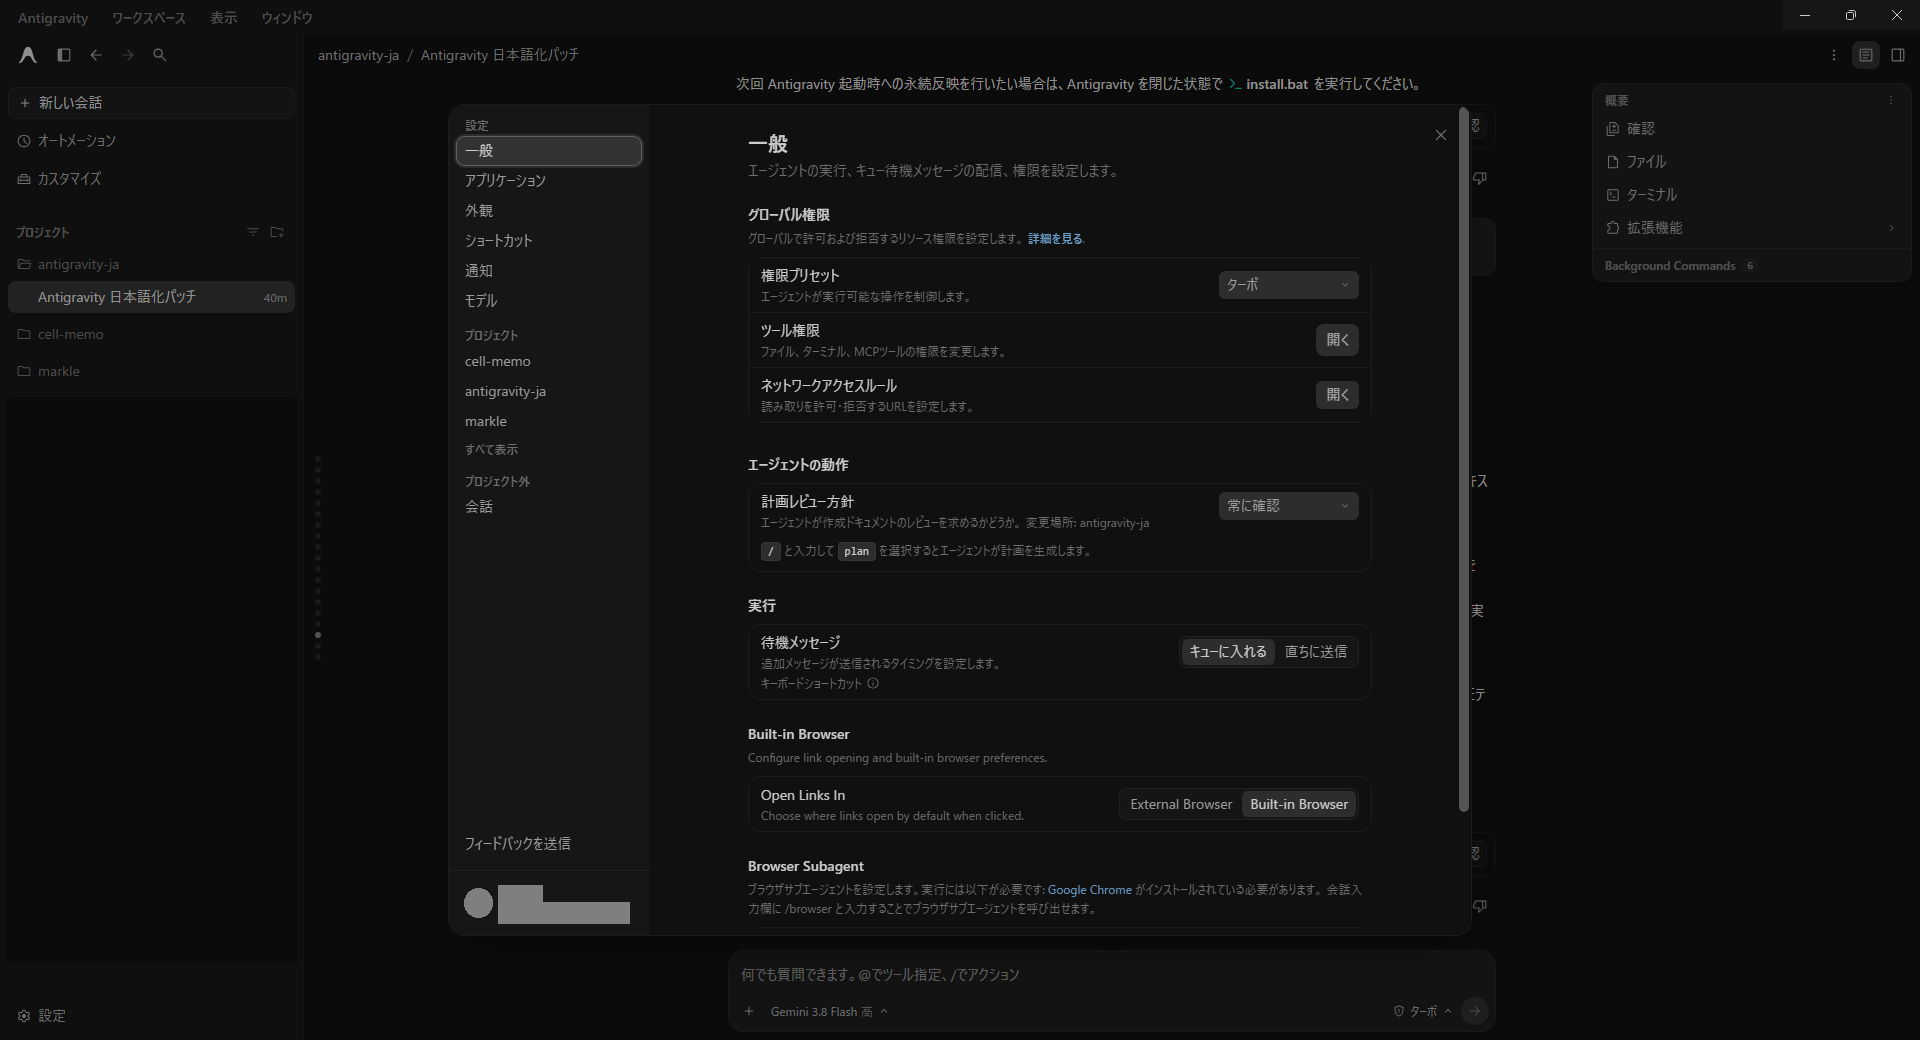
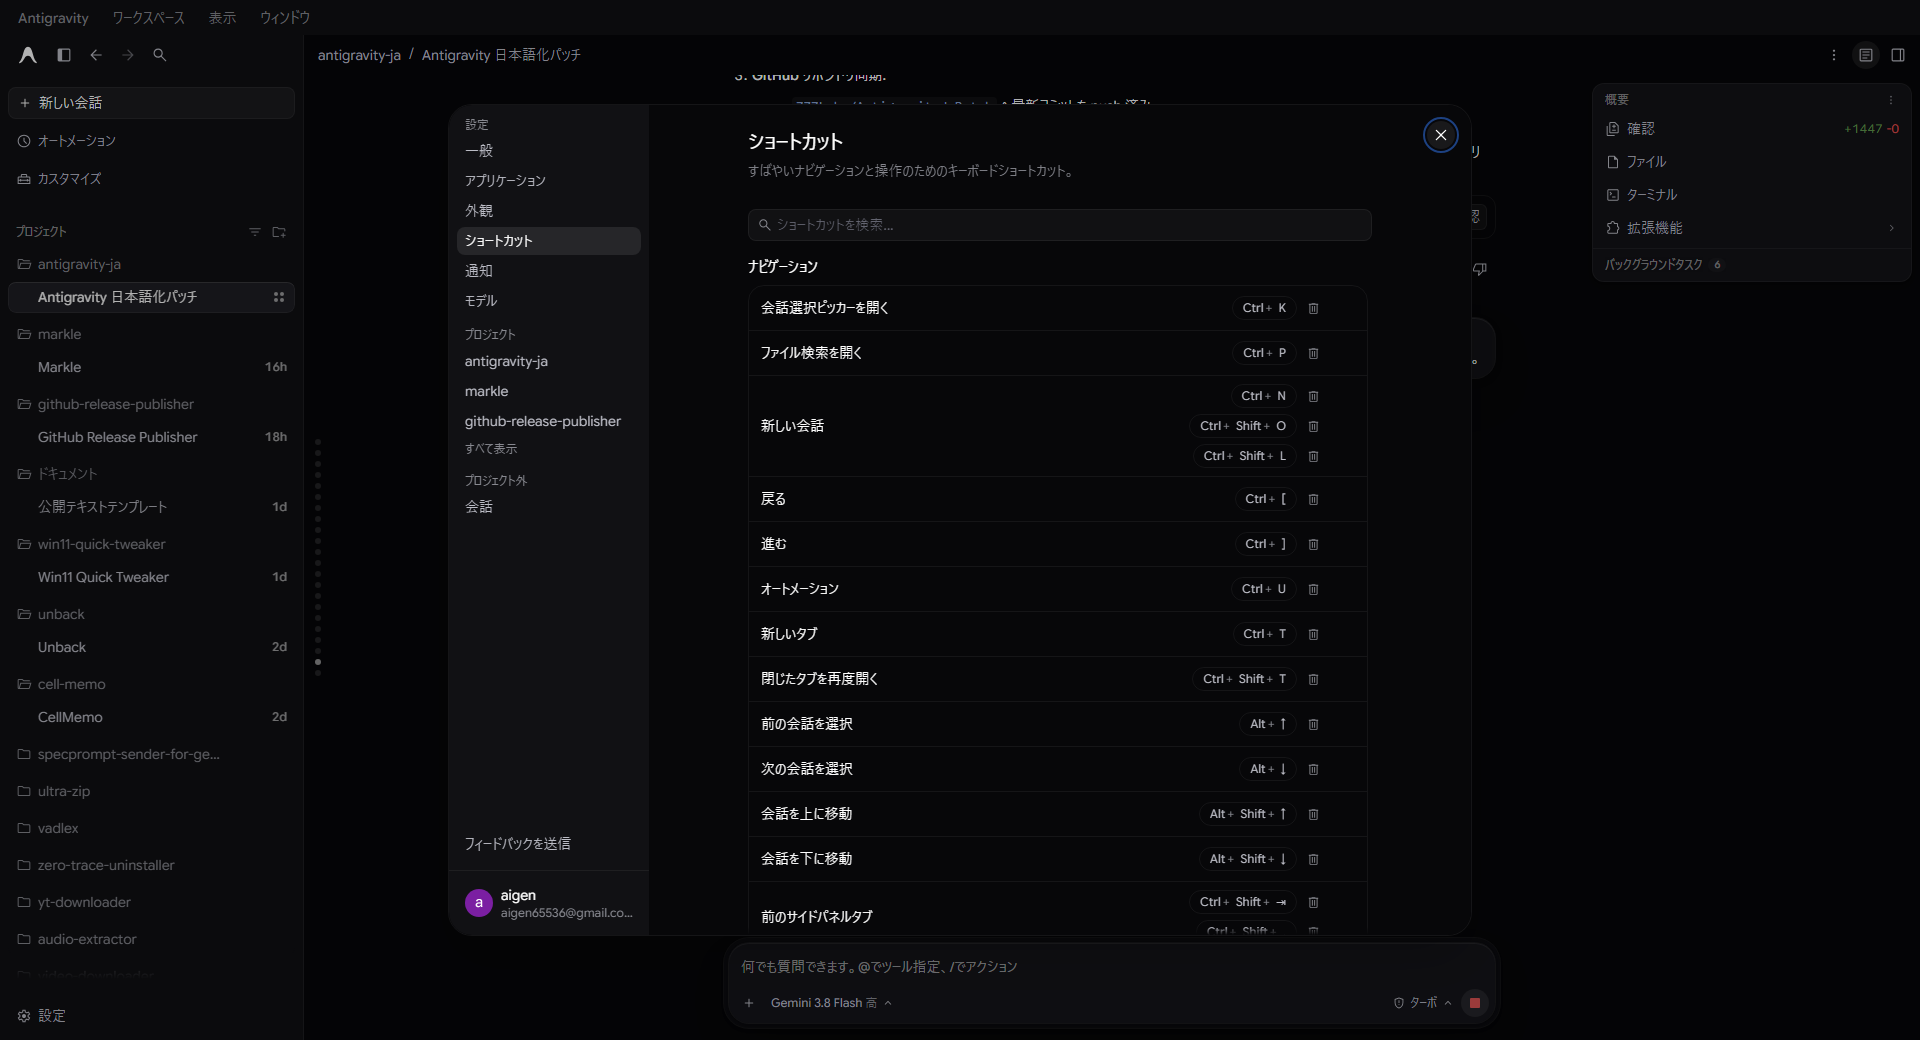
feat: Antigravity v2.29.0 対応（設定の一般・外観・ショートカットの日本語化）

diff --git a/CHANGELOG.md b/CHANGELOG.md
@@ -1,5 +1,52 @@
 # Changelog
 
+## v2.29.0
+
+Google Antigravity（デスクトップ版）の画面UIおよびAI応答を包括的に日本語化するパッチツールです。
+
+> **【注意】** 本ツールは Google 公式のツールではなく、非公式の有志製パッチ（Unofficial Patch）です。
+
+- **対応バージョン**: **Google Antigravity v2.29.0 まで動作確認・対応済み**
+- **配布形態**: ZIPアーカイブ配布（ソース非公開・スタンドアロン実行形式）
+
+---
+
+**■ 今回の更新内容 (v2.29.0)**
+- **Antigravity v2.29.0 対応**:
+  - **「設定」>「一般」タブの日本語化追加**:
+    - **内蔵ブラウザ（Built-in Browser）セクション**: 「Built-in Browser」→「内蔵ブラウザ」、「Configure link opening and built-in browser preferences.」→「リンクの開き方および内蔵ブラウザの設定を管理します。」、「Open Links In」→「リンクを開く場所」、「External Browser」→「外部ブラウザ」、「Download Location」→「ダウンロード先」、「Folder where files downloaded in the built-in browser are saved.」→「内蔵ブラウザでダウンロードしたファイルが保存されるフォルダ。」、「Change…」→「変更…」、「Browsing History」→「閲覧履歴」、「Browser Subagent」→「ブラウザサブエージェント」等
+    - **音声モード（Voice mode）セクション**: 「Voice mode」→「音声モード」、「Microphone」→「マイク」、「Input device for voice mode and dictation.」→「音声モードおよびディクテーション用の入力デバイス。」、「System default」→「システム既定」
+    - **効果音・通知**: 音量操作の aria-label（「Chime volume」→「チャイム音量」）
+  - **「設定」>「外観」タブの日本語化追加**:
+    - **チャット表示詳細度**: 「Chat」→「チャット」、「Conversation Steps」→「会話の実行ステップ」、「Choose how much detail is shown during a conversation.」→「会話中に表示する詳細レベルを選択します。」、「Verbose」→「詳細表示」
+    - **フォント**: 「Font」→「フォント」
+  - **「設定」>「ショートカット」タブの日本語化追加**:
+    - **検索**: 検索入力欄（「Search shortcuts...」→「ショートカットを検索...」）
+    - **キーバインド項目名**: 「Reopen Closed Tab」→「閉じたタブを再度開く」、「Move Conversation Up」→「会話を上に移動」、「Move Conversation Down」→「会話を下に移動」、「Previous Side Panel Tab」→「前のサイドパネルタブ」、「Next Side Panel Tab」→「次のサイドパネルタブ」、「Toggle Side Panel」→「サイドパネルの切り替え」、「Toggle Maximize Side Panel」→「サイドパネルの最大化を切り替え」
+    - **ショートカットボタン aria-label の動的日本語化**: 「$2 のショートカット: $1」「$2 のショートカット $1 を削除」「$1 のショートカットを追加」に対応
+- **辞書エントリの拡充**: 計727エントリへ拡張
+
+---
+
+**■ 適用方法（インストール）**
+1. Google Antigravity を完全に終了します。
+2. 配布用 ZIP アーカイブを展開（解凍）します。
+3. フォルダ内にある **`install.bat`** をダブルクリックして実行します。
+4. 適用完了メッセージが表示されたら、Google Antigravity を起動してください。
+
+---
+
+**■ 解除方法（アンインストール・復元）**
+1. Google Antigravity を完全に終了します。
+2. フォルダ内にある **`uninstall.bat`** をダブルクリックして実行します。
+3. 初回適用時に作成された原本バックアップから、公式の純正状態（英語）へ安全に完全復元されます。
+
+---
+
+**■ 注意事項**
+- **本体アップデート時の再適用**:
+  Google Antigravity 本体がアップデートされた場合、パッチが上書きされて英語表示に戻ります。その際は、Antigravity を終了して再度手動で **`install.bat`** を実行して適用し直してください。
+
 ## v2.28.2-r2
 
 Google Antigravity（デスクトップ版）の画面UIおよびAI応答を包括的に日本語化するパッチツールです。
